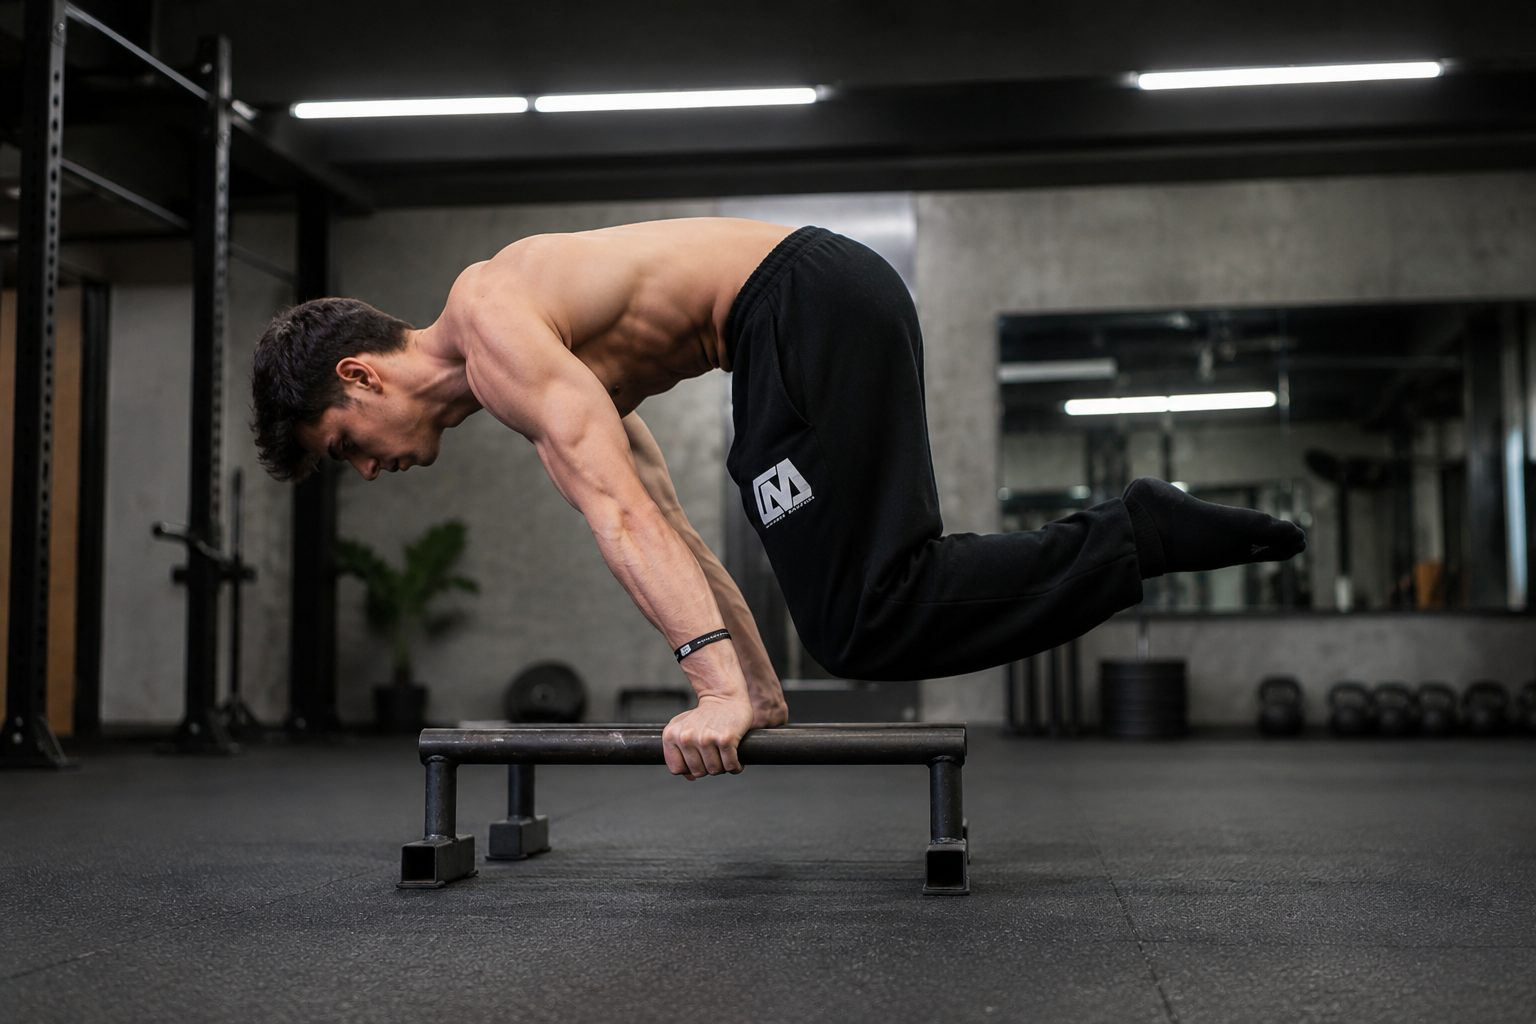
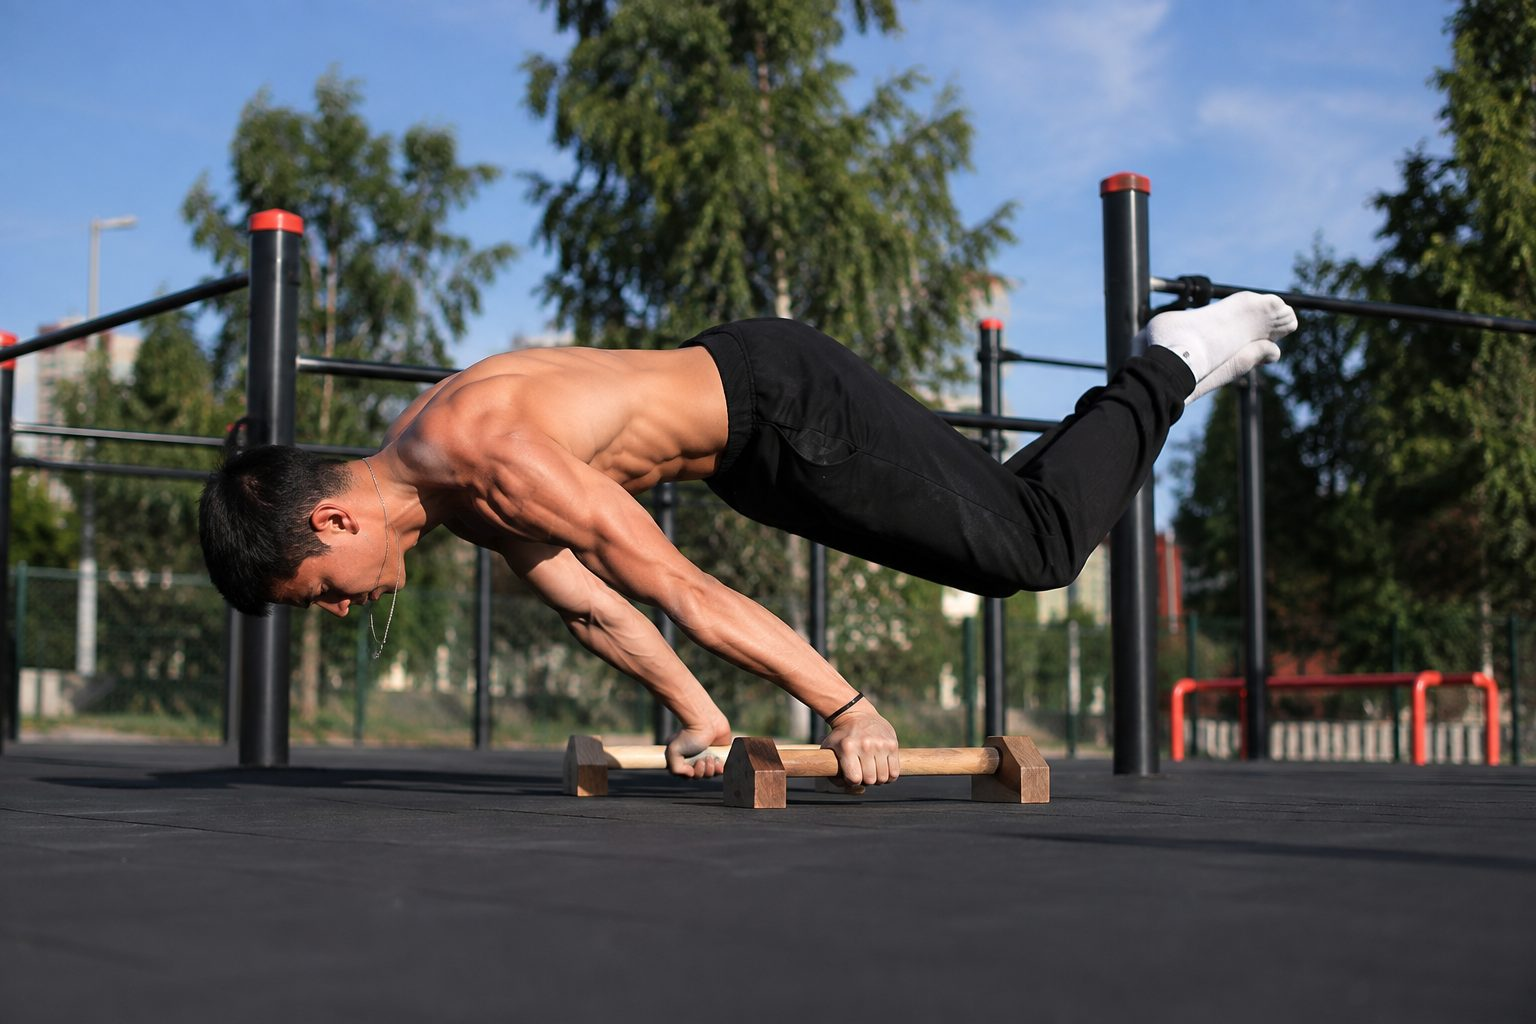
feat(blog): fotografias en lugar de diagramas en la guia de planche
Reorganizacion de la guia segun criterio editorial:

- Se retiran los tres diagramas SVG. Los datos que llevaban (torque por
  progresion y activacion EMG) siguen en las tablas del texto.
- Seccion 1: el pino y la full planche van juntos. Mismo atleta, mismo
  peso, misma musculatura; lo unico que cambia es donde cae la masa
  respecto al hombro. La comparacion la hacen ahora las dos fotos.
- Seccion 5: la full planche ilustra el serrato anterior, visible sobre
  las costillas en esa posicion.
- Fase 1: se retira la explicacion sobre la diferencia con la rana; la
  foto queda como posicion de partida.
- Fase 2: advanced tuck planche, imagen de IA declarada en el pie.
- Fase 3: half lay planche, imagen de IA declarada en el pie.

La guia queda sin huecos pendientes: ocho figuras, todas con imagen.

Se elimina PlancheDiagrams.tsx, que queda sin uso. El renderizador
conserva el soporte de [FIG:id] por si vuelven a hacer falta; los
diagramas son recuperables del commit d18b7d2.

diff --git a/src/lib/content.ts b/src/lib/content.ts
@@ -76,8 +76,8 @@ export const posts: Post[] = [
       "> **Torque = Peso del segmento × distancia horizontal hasta el hombro**",
       "La palabra clave es **horizontal**. No importa cuánto pesas: importa **a qué distancia del hombro está repartido ese peso**. Y como la distancia multiplica, alejar masa del hombro es brutalmente más caro que añadir masa cerca de él.",
       "Por eso una persona de 60 kg puede fallar la planche y sostener sin problema un pino a pulso: en el pino, todo tu cuerpo está apilado **encima** del hombro, la distancia horizontal es casi cero y el torque también.",
-      "[IMG:/blog/planche/pino.jpg|El pino sostiene exactamente el mismo peso corporal que la planche. La diferencia no está en la fuerza: está en que aquí la masa cae sobre el hombro en lugar de por delante de él.]",
-      "[FIG:palanca|En el pino la masa se apila sobre el hombro y la distancia horizontal es casi cero. En la planche esa misma masa se proyecta 46 cm por delante, y el torque se dispara.]",
+      "[IMG:/blog/planche/pino.jpg|**Pino.** Todo el peso corporal cae en vertical sobre el hombro: la distancia horizontal es casi cero y el torque, también.]",
+      "[IMG:/blog/planche/full-parallettes.jpg|**Full planche.** El mismo atleta, el mismo peso, los mismos hombros. Lo único que ha cambiado es que ahora la masa está proyectada 46 cm por delante del hombro en lugar de encima. Esa distancia es toda la dificultad.]",
 
       "### 2. Cuánto torque exige realmente una full planche",
       "Para ponerle número hay que saber cuánto pesa cada segmento del cuerpo y dónde está su centro de masas. Eso está resuelto desde hace décadas: los parámetros inerciales de segmento de **de Leva** [1] son el estándar en biomecánica y son los que se usan aquí.",
@@ -112,7 +112,7 @@ export const posts: Post[] = [
       "[DATO:92%|Del torque de la full planche es lo que exige una half planche con rodillas a 90°. Es la progresión que más fielmente reproduce su demanda mecánica.]",
       "Compáralo con el advanced tuck, que se queda en el 70%. La diferencia entre ambos no es el ángulo de la rodilla: es **dónde acaba el muslo**. En el advanced tuck el muslo se pone vertical y saca de la palanca el segmento pesado. En la half planche el muslo se queda dentro.",
       "> Esa es la razón mecánica por la que la half planche es el mejor simulador de la full planche: **conserva el segmento que más pesa en la posición que más torque genera.**",
-      "[FIG:progresiones|Las progresiones ordenadas por el torque que realmente exigen. Obsérvese el salto entre tuck y advanced tuck —11 puntos— frente al que separa la half lay de la full: solo 8.]",
+      "Obsérvese el salto entre tuck y advanced tuck —11 puntos— frente al que separa la half lay de la full: solo 8.",
 
       "### 5. Qué músculos sostienen realmente la planche",
       "Aquí dejamos la física y pasamos a lo que se ha medido en laboratorio.",
@@ -129,7 +129,7 @@ export const posts: Post[] = [
       "Casi nadie entrena la planche pensando en el bíceps, y sin embargo aparece en segundo lugar, muy por encima de lo que la intuición sugiere. Con el codo bloqueado en extensión, el bíceps trabaja como **estabilizador anterior del hombro y del codo**, impidiendo que la articulación colapse hacia atrás.",
       "#### El serrato anterior es el que casi nadie entrena",
       "El tercer músculo más activo es el que sostiene la **protracción escapular**: mantiene la escápula pegada y adelantada contra la caja torácica. La normativa técnica del elemento exige explícitamente «abducción escapular» [2]. Si tu serrato no aguanta, la escápula se retrae, el hombro pierde su base y la posición se cae aunque tu deltoides tuviera fuerza de sobra.",
-      "[FIG:anatomia|Los tres músculos con mayor excitación durante el elemento, medidos con electromiografía de superficie en gimnastas especialistas en anillas [2]. La intensidad del color corresponde al nivel de activación.]",
+      "[IMG:/blog/planche/full-parallettes.jpg|El **serrato anterior** es el que mantiene la escápula pegada y adelantada contra la caja torácica. En esta posición se ve trabajando: es la musculatura dentada que recorre el costado sobre las costillas, justo por debajo de la axila. Sin él, la escápula se retrae y el hombro pierde su base.]",
 
       "### 6. La lección de especificidad que ya está demostrada",
       "Esta es, para mí, la parte más útil de toda la evidencia disponible, y va directa a cómo entrenas.",
@@ -147,11 +147,10 @@ export const posts: Post[] = [
       "Esta es la secuencia que se desprende del análisis. **Aquí ya no estamos en terreno científico**: el orden se apoya en la mecánica calculada arriba, pero ninguna progresión de calistenia ha sido validada en un ensayo. Trátalo como lo que es: una guía razonada, no un protocolo demostrado.",
       "#### Fase 1 · Tuck planche — 59%",
       "Rodillas al pecho, espalda redondeada, escápulas protraídas. El objetivo aquí **no es aguantar**: es aprender a empujar el suelo lejos de ti y a mantener el codo bloqueado.",
-      "[IMG:/blog/planche/rana.jpg|**Esto no es una tuck planche: es una rana**, el paso previo. Fíjate en los codos flexionados y en las rodillas apoyadas sobre los brazos. La rana es un ejercicio de equilibrio y el peso baja por la estructura del brazo; la tuck planche es un ejercicio de torque y el peso lo sostienen los hombros con el codo bloqueado. Sirve para acostumbrarse a estar sobre las manos, pero **no entrena la planche**.]",
-      "> Si en tu tuck planche los codos se doblan o las rodillas se apoyan en los brazos, estás haciendo una rana. No es un fallo de fuerza: es otro ejercicio, y no produce las adaptaciones que buscas.",
+      "[IMG:/blog/planche/rana.jpg|Posición de partida: rodillas recogidas y peso sobre las manos. A medida que ganes fuerza, el objetivo es ir bloqueando el codo y despegar las rodillas de los brazos hasta sostenerte solo con el hombro.]",
       "#### Fase 2 · Advanced tuck planche — 70%",
       "Muslos verticales, espalda **plana**, cadera a la altura de los hombros. Es el mayor salto de exigencia de toda la progresión. Si la espalda se redondea, has vuelto a la fase 1 sin darte cuenta.",
-      "[IMG:|Advanced tuck planche: espalda plana y muslos perpendiculares al tronco. Es la única posición de la progresión para la que no se ha encontrado imagen fiel; el diagrama comparativo de la sección 3 la representa a escala.]",
+      "[IMG:/blog/planche/advanced-tuck.jpg|Advanced tuck planche: espalda plana, codos bloqueados y cadera a la altura de los hombros. *Imagen generada con inteligencia artificial, con fines ilustrativos.*]",
       "#### Fase 3 · Half planche o *half lay planche* — 87 a 92%",
       "Piernas juntas, **muslos alineados con el tronco** y rodillas flexionadas, con las tibias apuntando hacia arriba y atrás. **Aquí es donde se construye realmente la full planche.**",
       "Los tres puntos que definen la posición y que hay que vigilar:",

diff --git a/src/app/blog/[slug]/page.tsx b/src/app/blog/[slug]/page.tsx
@@ -2,11 +2,6 @@ import Link from "next/link";
 import { notFound } from "next/navigation";
 import { posts, categoryBadge, typeBadge } from "@/lib/content";
 import ArticleBody from "@/components/ArticleBody";
-import {
-  DiagramaPalanca,
-  DiagramaProgresiones,
-  DiagramaAnatomia,
-} from "@/components/blog/PlancheDiagrams";
 import { ArrowLeft } from "@/components/brand/icons";
 import Button from "@/components/brand/Button";
 import type { Metadata } from "next";
@@ -15,14 +10,11 @@ interface Props {
   params: Promise<{ slug: string }>;
 }
 
-/** Diagramas propios, por artículo. Se referencian desde el cuerpo con [FIG:id]. */
-const FIGURAS: Record<string, Record<string, React.ReactNode>> = {
-  "full-planche-biomecanica-torque-progresiones": {
-    palanca: <DiagramaPalanca />,
-    progresiones: <DiagramaProgresiones />,
-    anatomia: <DiagramaAnatomia />,
-  },
-};
+/**
+ * Diagramas propios por artículo, referenciados desde el cuerpo con [FIG:id].
+ * Ninguno en uso ahora mismo; el renderizador sigue admitiéndolos.
+ */
+const FIGURAS: Record<string, Record<string, React.ReactNode>> = {};
 
 export async function generateStaticParams() {
   return posts.map((p) => ({ slug: p.slug }));
